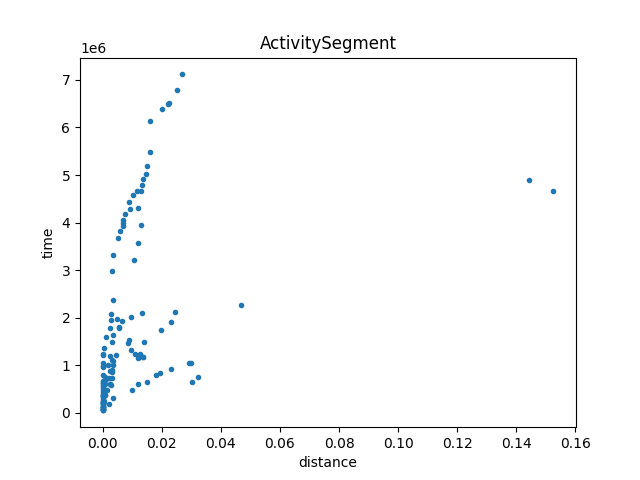
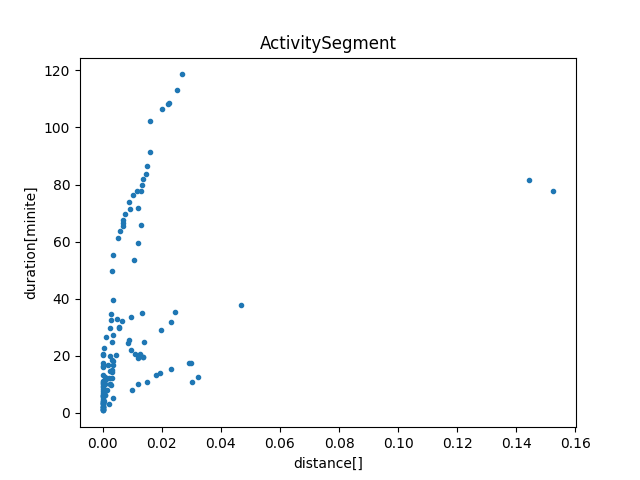
add tani

diff --git a/storeGLH/dataTrend.py b/storeGLH/dataTrend.py
@@ -30,6 +30,9 @@ def differenceList(segment):
 
 def docDistance(doc):
     return (doc["latE7"]**2 + doc["lngE7"]**2)
+def docDuration(doc):
+    offset = 1000 * 60 # convert to minite
+    return doc["timestampMs"] / offset
 
 
 def queryMongodb(query):
@@ -43,7 +46,7 @@ def createFigures(distlists,timelists):
     createFigure(distlists[1], timelists[1], "PlaceVisit")
     createFigure(distlists[0] + distlists[1], timelists[0] + timelists[1], "FullSegment")
 
-def createFigure(distlist, timelist, name, xlabel = "distance", ylabel = "time"):
+def createFigure(distlist, timelist, name, xlabel = "distance[]", ylabel = "duration[minite]"):
     savepath = "./images/"
     fig = plt.figure()
     ax = fig.add_subplot(1, 1, 1, title = name, xlabel = xlabel, ylabel = ylabel)
@@ -55,7 +58,7 @@ def fullFigure(distlists,timelists):
 
     # full | As
     # full | Pv
-    fullax = fig.add_subplot(1, 2, 1, title = "Full", xlabel = "distance", ylabel = "time")
+    fullax = fig.add_subplot(1, 2, 1, title = "Full", xlabel = "distance[]", ylabel = "duration[minite]")
     fullax.scatter(distlists[0] + distlists[1], timelists[0] + timelists[1], marker=".")
     asax = fig.add_subplot(2, 2, 2, title = "ActivitySegment")
     asax.scatter(distlists[0], timelists[0], marker=".")
@@ -77,11 +80,9 @@ if __name__ == '__main__' :
 
         for doc in differenceList(seg) :
             distlist.append(docDistance(doc))
-            timelist.append(doc["timestampMs"])
+            timelist.append(docDuration(doc))
 
-        # print([docDi
-        # 
-        # stance(doc) for doc in difflist])
+        # print([docDistance(doc) for doc in difflist])
         
         distlists.append(distlist)
         timelists.append(timelist)
